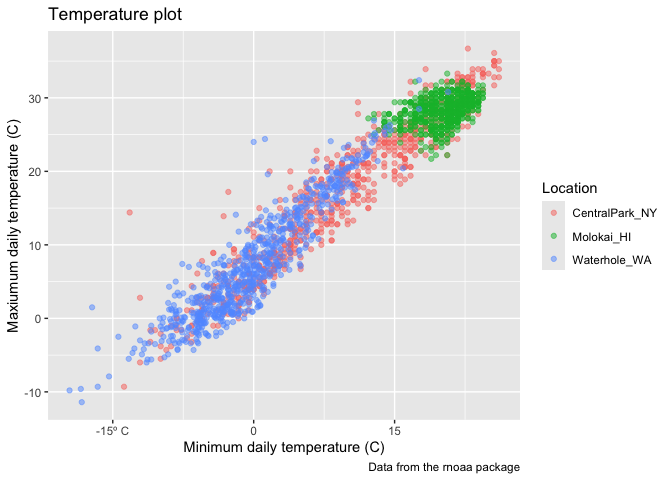
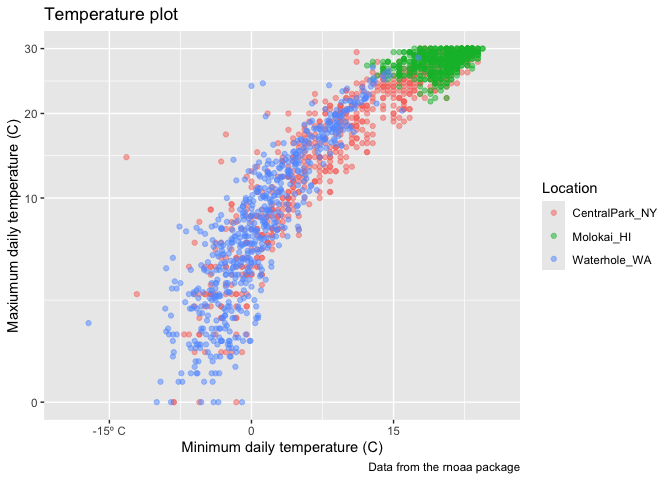
vis 2 markdown file

diff --git a/vis_2.md b/vis_2.md
@@ -85,10 +85,327 @@ weather_df |>
   scale_x_continuous(
     breaks = c(-15, 0, 15), 
     labels = c("-15º C", "0", "15")
+  ) +
+  scale_y_continuous(
+    limits = c(0, 30),
+    transform = "sqrt"
   )
+```
+
+    ## Warning in transformation$transform(x): NaNs produced
+
+    ## Warning in scale_y_continuous(limits = c(0, 30), transform = "sqrt"): sqrt
+    ## transformation introduced infinite values.
+
+    ## Warning: Removed 302 rows containing missing values or values outside the scale range
+    ## (`geom_point()`).
+
+![](vis_2_files/figure-gfm/unnamed-chunk-4-1.png)<!-- -->
+
+Look at color:
+
+``` r
+ggp_scatterplot = 
+  weather_df |> 
+  ggplot(aes(x = tmin, y = tmax)) + 
+  geom_point(aes(color = name), alpha = .5) + 
+  labs(
+    title = "Temperature plot",
+    x = "Minimum daily temperature (C)",
+    y = "Maxiumum daily temperature (C)",
+    color = "Location",
+    caption = "Data from the rnoaa package"
+  ) + 
+  scale_color_hue(h = c(500, 600)) # +
+  # viridis::scale_color_viridis(discreeete = TRUE)
+```
+
+## Themes
+
+``` r
+ggp_scatterplot +
+  theme(legend.position = "bottom")
 ```
 
     ## Warning: Removed 17 rows containing missing values or values outside the scale range
     ## (`geom_point()`).
 
-![](vis_2_files/figure-gfm/unnamed-chunk-4-1.png)<!-- -->
+![](vis_2_files/figure-gfm/unnamed-chunk-6-1.png)<!-- -->
+
+``` r
+ggp_scatterplot +
+  theme_bw() +
+  theme(legend.position = "bottom")
+```
+
+    ## Warning: Removed 17 rows containing missing values or values outside the scale range
+    ## (`geom_point()`).
+
+![](vis_2_files/figure-gfm/unnamed-chunk-7-1.png)<!-- -->
+
+Order matters…
+
+``` r
+ggp_scatterplot +
+  theme(legend.position = "bottom") +
+  ggthemes::theme_excel()
+```
+
+    ## Warning: Removed 17 rows containing missing values or values outside the scale range
+    ## (`geom_point()`).
+
+![](vis_2_files/figure-gfm/unnamed-chunk-8-1.png)<!-- -->
+
+``` r
+# does not move the legend to the bottom
+```
+
+``` r
+weather_df |> 
+  ggplot(aes(x = date, y = tmax, color = name, size = prcp)) + 
+  geom_point(alpha = 0.3) +
+  geom_smooth(se = FALSE) +
+  viridis::scale_color_viridis(discrete = TRUE) +
+  labs(
+    title = "Temperature over time",
+    x = "Date",
+    y = "Max daily temp (C)",
+    color = "Location",
+    size = "Precipitation"
+  ) +
+    theme(legend.posiion = "bottom")
+```
+
+    ## Warning: Using `size` aesthetic for lines was deprecated in ggplot2 3.4.0.
+    ## ℹ Please use `linewidth` instead.
+    ## This warning is displayed once every 8 hours.
+    ## Call `lifecycle::last_lifecycle_warnings()` to see where this warning was
+    ## generated.
+
+    ## `geom_smooth()` using method = 'loess' and formula = 'y ~ x'
+
+    ## Warning: Removed 17 rows containing non-finite outside the scale range
+    ## (`stat_smooth()`).
+
+    ## Warning: The following aesthetics were dropped during statistical transformation: size.
+    ## ℹ This can happen when ggplot fails to infer the correct grouping structure in
+    ##   the data.
+    ## ℹ Did you forget to specify a `group` aesthetic or to convert a numerical
+    ##   variable into a factor?
+
+    ## Warning in plot_theme(plot): The `legend.posiion` theme element is not defined
+    ## in the element hierarchy.
+
+    ## Warning: Removed 19 rows containing missing values or values outside the scale range
+    ## (`geom_point()`).
+
+![](vis_2_files/figure-gfm/unnamed-chunk-9-1.png)<!-- -->
+
+Extra bonus stuff in `ggplot`
+
+Use difffefrent datasets in different `geom`s
+
+``` r
+central_park_df = 
+  weather_df |> 
+  filter(name == "CentralPark_NY")
+
+molokai_df = 
+  weather_df |> 
+  filter(name == "Molokai_HI")
+
+molokai_df |> 
+  ggplot(aes(x = date, y = tmax, color = name)) +
+  geom_point() +
+  geom_line(data = central_park_df)
+```
+
+    ## Warning: Removed 1 row containing missing values or values outside the scale range
+    ## (`geom_point()`).
+
+![](vis_2_files/figure-gfm/unnamed-chunk-10-1.png)<!-- -->
+
+## Multiple panels
+
+``` r
+weather_df |> 
+  ggplot(aes(x = tmax, fill = name)) +
+  geom_density() +
+  facet_grid(. ~ name)
+```
+
+    ## Warning: Removed 17 rows containing non-finite outside the scale range
+    ## (`stat_density()`).
+
+![](vis_2_files/figure-gfm/unnamed-chunk-11-1.png)<!-- -->
+
+``` r
+ggp_tmax_tmin = 
+  weather_df |> 
+  ggplot(aes(x = tmin, y = tmax, color = name)) +
+  geom_point(alpha = .3)
+
+ggp_tmax_density = 
+  weather_df |> 
+  ggplot(aes(x = tmin, fill = name)) +
+  geom_density(alpha = .3)
+
+ggp_tmax_date = 
+  weather_df |> 
+  ggplot(aes(x = date, y = tmax, color = name)) +
+  geom_point() +
+  geom_smooth(se = FALSE)
+
+(ggp_tmax_tmin + ggp_tmax_density) / ggp_tmax_date
+```
+
+    ## Warning: Removed 17 rows containing missing values or values outside the scale range
+    ## (`geom_point()`).
+
+    ## Warning: Removed 17 rows containing non-finite outside the scale range
+    ## (`stat_density()`).
+
+    ## `geom_smooth()` using method = 'loess' and formula = 'y ~ x'
+
+    ## Warning: Removed 17 rows containing non-finite outside the scale range
+    ## (`stat_smooth()`).
+
+    ## Warning: Removed 17 rows containing missing values or values outside the scale range
+    ## (`geom_point()`).
+
+![](vis_2_files/figure-gfm/unnamed-chunk-12-1.png)<!-- -->
+
+## Data manipulation
+
+``` r
+weather_df |>
+  ggplot(aes(x = name, y = tmax, fill = name)) +
+  geom_violin(aes(fill = name), color = "blue", alpha = .5) + 
+  theme(legend.position = "bottom")
+```
+
+    ## Warning: Removed 17 rows containing non-finite outside the scale range
+    ## (`stat_ydensity()`).
+
+![](vis_2_files/figure-gfm/unnamed-chunk-13-1.png)<!-- -->
+
+``` r
+weather_df |>
+  mutate(name = forcats::fct_reorder(name, tmax)) |> 
+  ggplot(aes(x = name, y = tmax)) + 
+  geom_violin(aes(fill = name), color = "blue", alpha = .5) + 
+  theme(legend.position = "bottom")
+```
+
+    ## Warning: There was 1 warning in `mutate()`.
+    ## ℹ In argument: `name = forcats::fct_reorder(name, tmax)`.
+    ## Caused by warning:
+    ## ! `fct_reorder()` removing 17 missing values.
+    ## ℹ Use `.na_rm = TRUE` to silence this message.
+    ## ℹ Use `.na_rm = FALSE` to preserve NAs.
+
+    ## Warning: Removed 17 rows containing non-finite outside the scale range
+    ## (`stat_ydensity()`).
+
+![](vis_2_files/figure-gfm/unnamed-chunk-14-1.png)<!-- -->
+
+``` r
+weather_df |>
+  select(name, tmax, tmin) |> 
+  pivot_longer(
+    tmax:tmin,
+    names_to = "observation", 
+    values_to = "temp") |> 
+  ggplot(aes(x = temp, fill = observation)) +
+  geom_density(alpha = .5) + 
+  facet_grid(~name) + 
+  viridis::scale_fill_viridis(discrete = TRUE)
+```
+
+    ## Warning: Removed 34 rows containing non-finite outside the scale range
+    ## (`stat_density()`).
+
+![](vis_2_files/figure-gfm/unnamed-chunk-15-1.png)<!-- -->
+
+Improve and tidy pulse data. Create BDI boxplot.
+
+``` r
+pulse_data = 
+  haven::read_sas("./data/public_pulse_data.sas7bdat") |>
+  janitor::clean_names() |>
+  pivot_longer(
+    bdi_score_bl:bdi_score_12m,
+    names_to = "visit", 
+    names_prefix = "bdi_score_",
+    values_to = "bdi") |>
+  select(id, visit, everything()) |>
+  mutate(
+    visit = recode(visit, "bl" = "00m"),
+    visit = factor(visit, levels = str_c(c("00", "01", "06", "12"), "m"))) |>
+  arrange(id, visit)
+
+ggplot(pulse_data, aes(x = visit, y = bdi)) + 
+  geom_boxplot()
+```
+
+    ## Warning: Removed 879 rows containing non-finite outside the scale range
+    ## (`stat_boxplot()`).
+
+![](vis_2_files/figure-gfm/unnamed-chunk-16-1.png)<!-- -->
+
+FAS data.
+
+``` r
+pup_data = 
+  read_csv("./data/FAS_pups.csv", na = c("NA", ".", "")) |>
+  janitor::clean_names() |>
+  mutate(
+    sex = 
+      case_match(
+        sex, 
+        1 ~ "male", 
+        2 ~ "female"))
+```
+
+    ## Rows: 313 Columns: 6
+    ## ── Column specification ────────────────────────────────────────────────────────
+    ## Delimiter: ","
+    ## chr (1): Litter Number
+    ## dbl (5): Sex, PD ears, PD eyes, PD pivot, PD walk
+    ## 
+    ## ℹ Use `spec()` to retrieve the full column specification for this data.
+    ## ℹ Specify the column types or set `show_col_types = FALSE` to quiet this message.
+
+``` r
+litter_data = 
+  read_csv("./data/FAS_litters.csv", na = c("NA", ".", "")) |>
+  janitor::clean_names() |>
+  separate(group, into = c("dose", "day_of_tx"), sep = 3)
+```
+
+    ## Rows: 49 Columns: 8
+    ## ── Column specification ────────────────────────────────────────────────────────
+    ## Delimiter: ","
+    ## chr (2): Group, Litter Number
+    ## dbl (6): GD0 weight, GD18 weight, GD of Birth, Pups born alive, Pups dead @ ...
+    ## 
+    ## ℹ Use `spec()` to retrieve the full column specification for this data.
+    ## ℹ Specify the column types or set `show_col_types = FALSE` to quiet this message.
+
+``` r
+fas_data = left_join(pup_data, litter_data, by = "litter_number") 
+
+fas_data |> 
+  select(sex, dose, day_of_tx, pd_ears:pd_walk) |> 
+  pivot_longer(
+    pd_ears:pd_walk,
+    names_to = "outcome", 
+    values_to = "pn_day") |> 
+  drop_na() |> 
+  mutate(outcome = forcats::fct_reorder(outcome, pn_day, median)) |> 
+  ggplot(aes(x = dose, y = pn_day)) + 
+  geom_violin() + 
+  facet_grid(day_of_tx ~ outcome)
+```
+
+![](vis_2_files/figure-gfm/unnamed-chunk-17-1.png)<!-- -->
